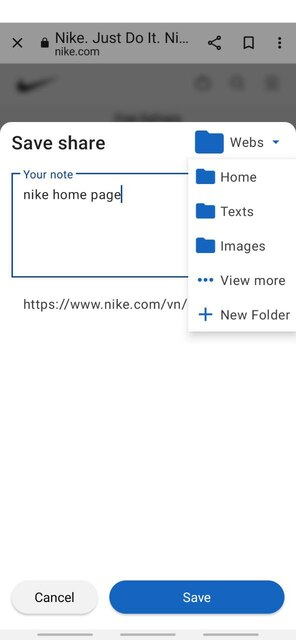
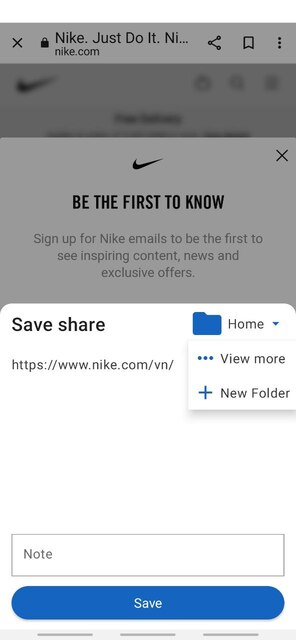
update guideline

diff --git a/app/src/main/assets/guideline/guide.html b/app/src/main/assets/guideline/guide.html
@@ -37,13 +37,13 @@
 
 <p>6. Click on <b>Save</b> button
     <br/>
-    <img src="https://appassets.androidplatform.net/assets/guideline/6.jpg"
+    <img src="https://appassets.androidplatform.net/assets/guideline/3.jpg"
          class="image">
     <br/>
 
 <p>7. Your share has been saved successfully
     <br/>
-    <img src="https://appassets.androidplatform.net/assets/guideline/7.jpg"
+    <img src="https://appassets.androidplatform.net/assets/guideline/6.jpg"
          class="image">
     <br/>
 </body>

diff --git a/app/src/main/java/com/dinhlam/sharebox/ui/home/HomeActivity.kt b/app/src/main/java/com/dinhlam/sharebox/ui/home/HomeActivity.kt
@@ -299,6 +299,11 @@ class HomeActivity : BaseViewModelActivity<HomeState, HomeViewModel, ActivityHom
             return true
         }
 
+        if (item.itemId == R.id.item_guideline) {
+            openGuideLineDialog()
+            return true
+        }
+
         return super.onOptionsItemSelected(item)
     }
 
